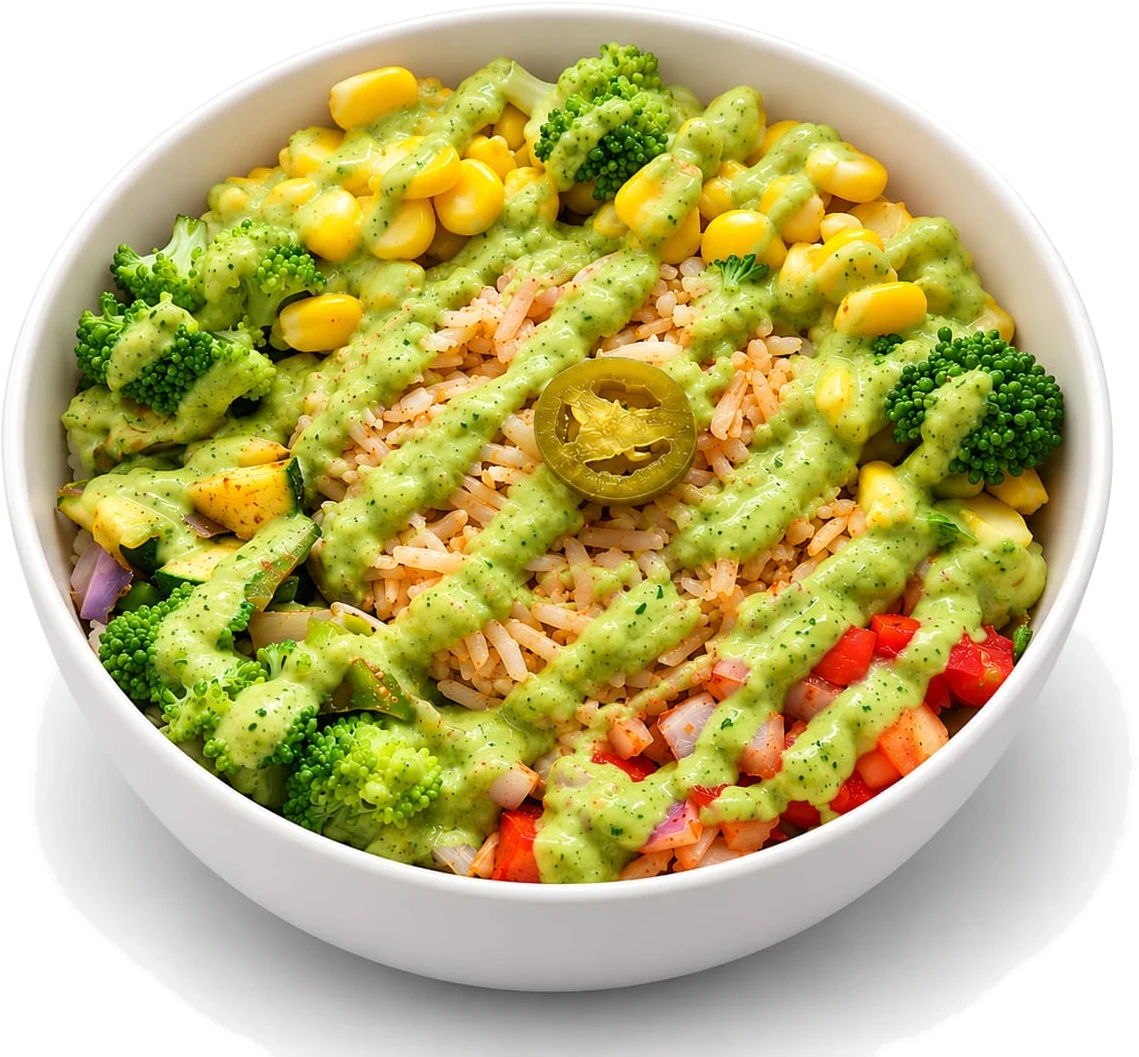
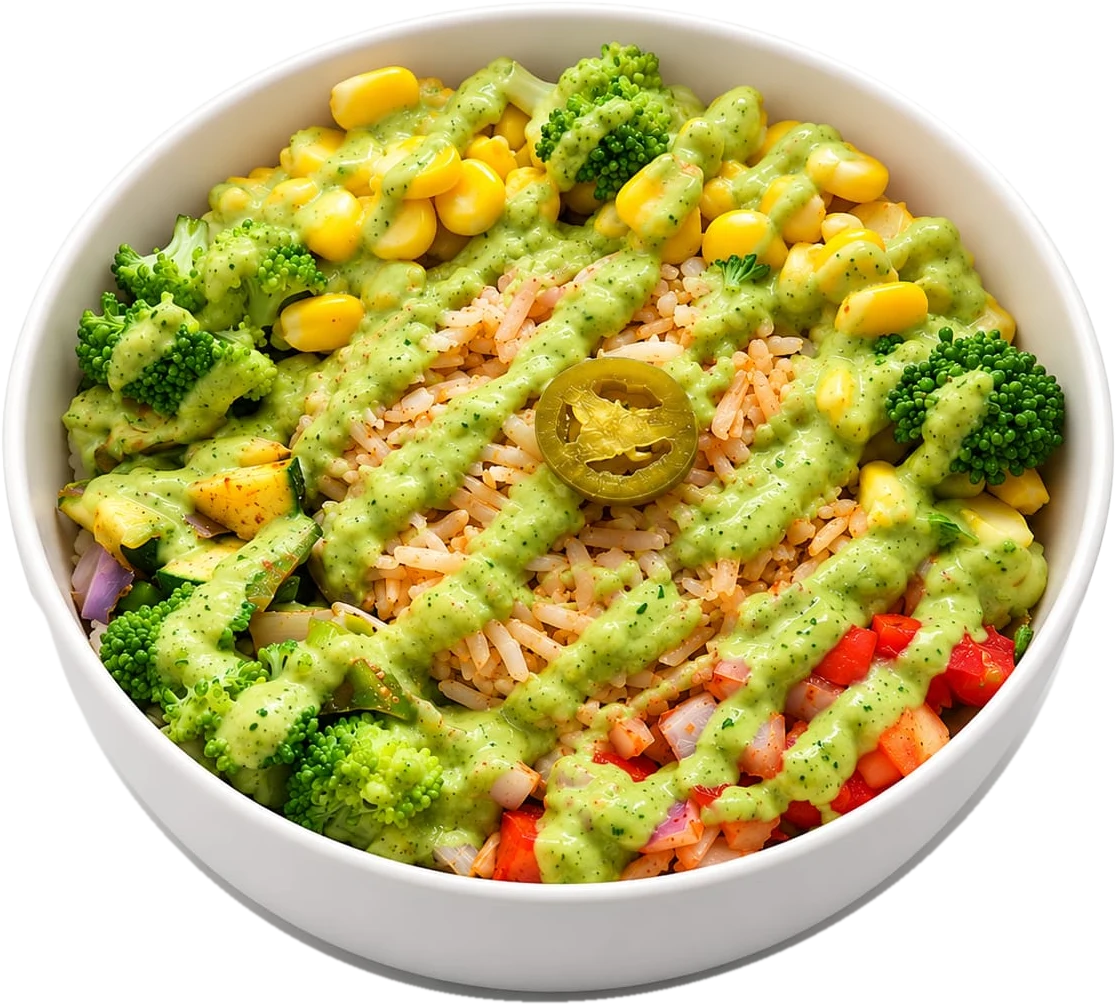
About: remove shadow patch from hero bowl cut-out

diff --git a/freshforge/about/index.html b/freshforge/about/index.html
@@ -3037,7 +3037,7 @@ document.addEventListener("DOMContentLoaded", function() {
 <link rel="stylesheet" href="https://fonts.googleapis.com/css2?family=League+Spartan:wght@400;500;600;700&display=swap">
 <link rel="stylesheet" href="../assets/css/tokens.css">
 <link rel="stylesheet" href="../assets/css/inner.css">
-<link rel="stylesheet" href="../assets/about/about.css?v=20261114">
+<link rel="stylesheet" href="../assets/about/about.css?v=20261115">
 </head>
 
 <body
@@ -3841,7 +3841,7 @@ document.addEventListener("DOMContentLoaded", function() {
 
 
 
-<script src="../assets/about/about.js?v=20261114"></script>
+<script src="../assets/about/about.js?v=20261115"></script>
 </body>
 
 <!-- Mirrored from bananablossomsalads.com/menu/ by HTTrack Website Copier/3.x [XR&CO'2014], Tue, 09 Jun 2026 03:24:14 GMT -->
